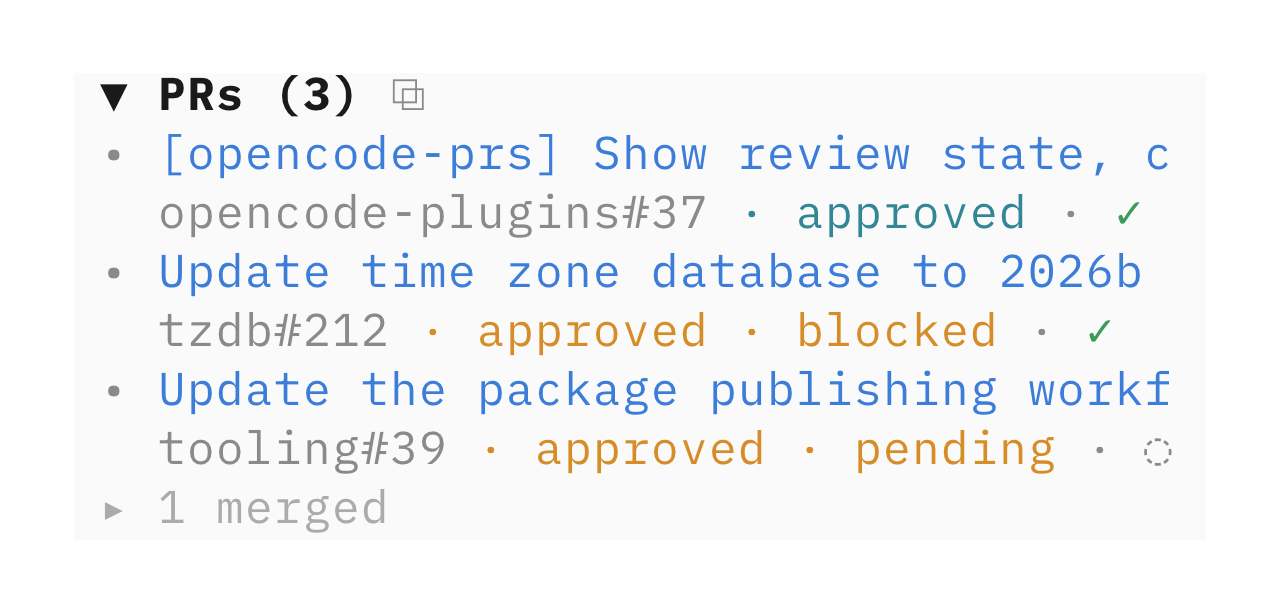
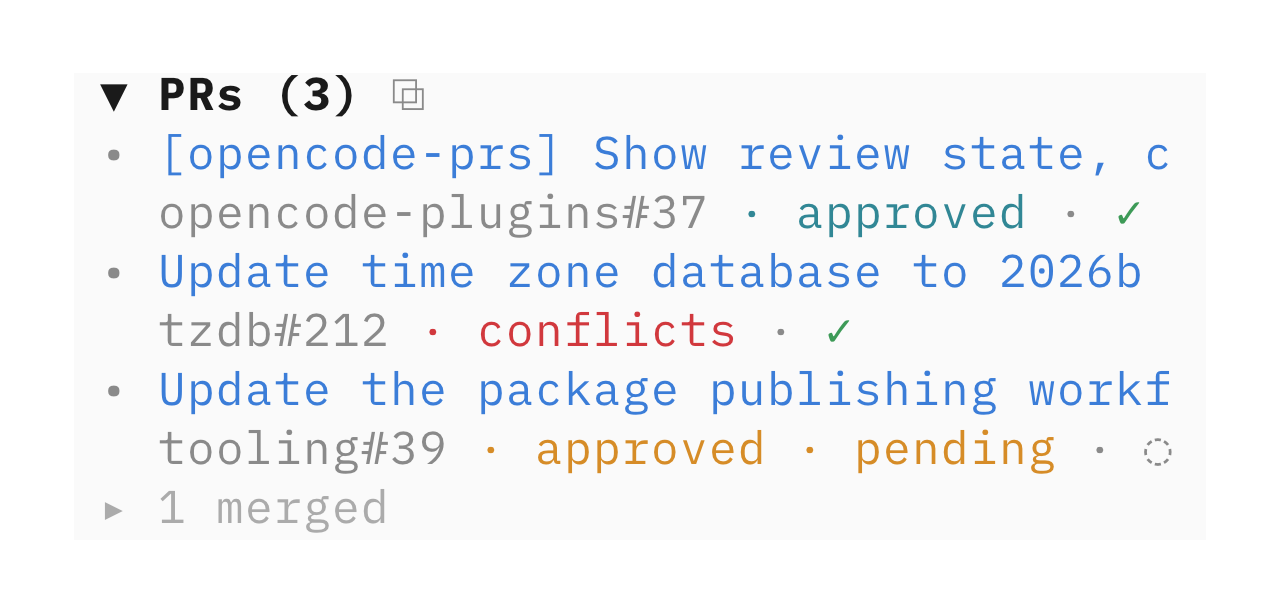
[opencode-prs] show conflicts as a status word, pending before blocked (#56)

Changed region(s): [[0.375, 0.4943, 0.5938, 0.587], [0.625, 0.4943, 0.7812, 0.587], [0.8438, 0.5252, 0.875, 0.5561]]

diff --git a/packages/prs/test/prs.test.js b/packages/prs/test/prs.test.js
@@ -124,7 +124,7 @@ test("labels review state with words", () => {
   const approved = { state: "OPEN", isDraft: false, reviewDecision: "APPROVED", mergeStateStatus: "CLEAN", checks: "passing" }
   assert.equal(pullRequestStatusLabel(approved), "approved")
   assert.equal(pullRequestStatusLabel({ ...approved, mergeStateStatus: "BLOCKED" }), "approved · blocked")
-  assert.equal(pullRequestStatusLabel({ ...approved, mergeStateStatus: "BLOCKED", checks: "pending" }), "approved · blocked")
+  assert.equal(pullRequestStatusLabel({ ...approved, mergeStateStatus: "BLOCKED", checks: "pending" }), "approved · pending")
   assert.equal(pullRequestStatusLabel({ ...approved, mergeStateStatus: "UNKNOWN", checks: "pending" }), "approved · pending")
   assert.equal(pullRequestStatusLabel({ ...approved, mergeStateStatus: "UNSTABLE", checks: "pending" }), "approved · pending")
   assert.equal(pullRequestStatusLabel({ ...approved, mergeStateStatus: "UNSTABLE", checks: "failing" }), "approved")
@@ -162,11 +162,13 @@ test("maps the checks rollup to an indicator", () => {
   assert.equal(pullRequestChecksIndicator({ state: "MERGED", checks: "passing" }), undefined)
 })
 
-test("shows a conflicting PR as failing even when its checks passed", () => {
-  assert.equal(pullRequestChecksIndicator({ state: "OPEN", checks: "passing", mergeStateStatus: "DIRTY" }), "×")
-  assert.equal(pullRequestChecksIndicator({ state: "OPEN", checks: "none", mergeStateStatus: "DIRTY" }), "×")
-  assert.equal(pullRequestChecksIndicator({ state: "OPEN", checks: "passing", mergeStateStatus: "BLOCKED" }), "✓")
-  assert.equal(pullRequestChecksIndicator({ state: "MERGED", checks: "passing", mergeStateStatus: "DIRTY" }), undefined)
+test("labels a conflicting PR as conflicts and leaves the checks indicator alone", () => {
+  const conflicting = { state: "OPEN", isDraft: false, reviewDecision: "APPROVED", mergeStateStatus: "DIRTY", checks: "passing" }
+  assert.equal(pullRequestStatusLabel(conflicting), "conflicts")
+  assert.equal(pullRequestStatusLabel({ ...conflicting, isDraft: true }), "conflicts")
+  assert.equal(pullRequestStatusLabel({ ...conflicting, reviewDecision: "REVIEW_REQUIRED" }), "conflicts")
+  assert.equal(pullRequestStatusLabel({ ...conflicting, state: "MERGED" }), "merged")
+  assert.equal(pullRequestChecksIndicator(conflicting), "✓")
 })
 
 test("labels pull requests with their repository", () => {

diff --git a/packages/prs/src/prs.ts b/packages/prs/src/prs.ts
@@ -145,10 +145,8 @@ export function pullRequestFromRest(ref: PullRequestRef, data: RestPullRequest, 
 }
 
 export type ChecksIndicator = "✓" | "×" | "◌"
-// GitHub stops running checks on a conflicting branch, so a green rollup would hide that the PR cannot merge.
-export function pullRequestChecksIndicator(pr: Pick<PullRequest, "state" | "checks" | "mergeStateStatus">): ChecksIndicator | undefined {
+export function pullRequestChecksIndicator(pr: Pick<PullRequest, "state" | "checks">): ChecksIndicator | undefined {
   if (pr.state !== "OPEN") return undefined
-  if (pr.mergeStateStatus === "DIRTY") return "×"
   if (pr.checks === "passing") return "✓"
   if (pr.checks === "failing") return "×"
   if (pr.checks === "pending") return "◌"
@@ -161,12 +159,20 @@ export function pullRequestStatus(pr: Pick<PullRequest, "state" | "isDraft">): "
   return pr.isDraft ? "draft" : "open"
 }
 
+// GitHub stops running checks on a conflicting branch, so conflicts must show even when every check is green.
+export function pullRequestHasConflicts(pr: Pick<PullRequest, "state" | "mergeStateStatus">): boolean {
+  return pr.state === "OPEN" && pr.mergeStateStatus === "DIRTY"
+}
+
+// Required checks still running also report BLOCKED, so pending wins until they finish.
 export function pullRequestStatusLabel(pr: Pick<PullRequest, "state" | "isDraft" | "reviewDecision" | "mergeStateStatus" | "checks">): string {
+  if (pullRequestHasConflicts(pr)) return "conflicts"
   const status = pullRequestStatus(pr)
   if (status !== "open") return status
   if (pr.reviewDecision !== "APPROVED") return "waiting"
+  if (pr.checks === "pending") return "approved · pending"
   if (pr.mergeStateStatus === "BLOCKED") return "approved · blocked"
-  return pr.checks === "pending" ? "approved · pending" : "approved"
+  return "approved"
 }
 
 export function pullRequestStatusIsWarning(pr: Pick<PullRequest, "isDraft" | "reviewDecision" | "mergeStateStatus" | "checks">): boolean {

diff --git a/packages/prs/src/tui.tsx b/packages/prs/src/tui.tsx
@@ -15,6 +15,7 @@ import {
   pullRequestCommentsLabel,
   pullRequestFromNode,
   pullRequestFromRest,
+  pullRequestHasConflicts,
   pullRequestLabel,
   pullRequestStatusLabel,
   pullRequestStatusIsWarning,
@@ -207,6 +208,7 @@ function PullRequestRow(props: {
   const titleColor = () => merged() ? subdued() : props.link
   const statusColor = () => {
     if (merged()) return subdued()
+    if (pullRequestHasConflicts(props.pr)) return props.error
     return pullRequestStatusIsWarning(props.pr) ? props.draft : props.open
   }
   const checksColor = (indicator: ChecksIndicator) => {
@@ -571,6 +573,7 @@ function PanelRow(props: {
   const subdued = () => merged() ? fade(theme.text.muted, MERGED_OPACITY) : theme.text.muted
   const statusColor = () => {
     if (merged()) return subdued()
+    if (pullRequestHasConflicts(props.pr)) return theme.text.feedback.error.base
     return pullRequestStatusIsWarning(props.pr) ? theme.text.feedback.warning.base : theme.text.feedback.info.base
   }
   const checksLine = () => {
@@ -609,9 +612,6 @@ function PanelRow(props: {
           {` · +${props.pr.additions}/-${props.pr.deletions}`}
         </text>
       </box>
-      <Show when={props.pr.state === "OPEN" && props.pr.mergeStateStatus === "DIRTY"}>
-        <text fg={theme.text.feedback.error.base} marginLeft={2} wrapMode="none">× merge conflicts</text>
-      </Show>
       <Show when={props.pr.state === "OPEN" && props.pr.checkSummary.total > 0}>
         <box flexDirection="column" marginLeft={2} minWidth={0}>
           <For each={props.pr.checkSummary.failing}>{(name) => (

diff --git a/scripts/screenshots/prs.py b/scripts/screenshots/prs.py
@@ -26,7 +26,7 @@ How it works:
    of the first title for the animation frames.
 5. Assembles the GIF: 1.1s rest, 120ms per marquee step, 2.1s rest, plays once.
 
-Outputs assets/prs-<mode>.png and assets/prs-hover-<mode>-v5.gif.
+Outputs assets/prs-<mode>.png and assets/prs-hover-<mode>-v6.gif.
 Bump the gif suffix (and the README references) when the animation changes:
 GitHub caches by filename.
 """
@@ -37,7 +37,7 @@ ROOT = os.path.dirname(os.path.dirname(HERE))
 ASSETS = os.path.join(ROOT, "assets")
 PLUGIN = os.path.join(ROOT, "packages/prs/dist")
 SESSION = "ses_screenshots0000000000prs"
-GIF_SUFFIX = "v5"
+GIF_SUFFIX = "v6"
 CHROME = "/Applications/Google Chrome.app/Contents/MacOS/Google Chrome"
 
 PR_URLS = [  # order of creation, sidebar sorts them itself

diff --git a/packages/prs/README.md b/packages/prs/README.md
@@ -3,13 +3,13 @@
 [OpenCode](https://opencode.ai) TUI plugin that lists GitHub pull requests opened by the current session.
 
 <picture>
-  <source media="(prefers-color-scheme: dark)" srcset="../../assets/prs-hover-dark-v5.gif">
-  <img src="../../assets/prs-hover-light-v5.gif" alt="Pull request titles scrolling on hover in the OpenCode sidebar" width="640">
+  <source media="(prefers-color-scheme: dark)" srcset="../../assets/prs-hover-dark-v6.gif">
+  <img src="../../assets/prs-hover-light-v6.gif" alt="Pull request titles scrolling on hover in the OpenCode sidebar" width="640">
 </picture>
 
-The sidebar section is collapsible. Each pull request uses a full-width linked title with its muted `repository#number` and colored status below: `approved`, `approved · blocked`, `approved · pending`, or `waiting` for open pull requests, `draft`, or `merged`. The blocked label appears when GitHub reports an approved pull request cannot merge, including when required checks or approvals are outstanding. Pending means checks are still running, even when GitHub has not settled the merge state. Open pull requests also show unresolved review comments and a checks indicator: `✓` passing, `×` failing or merge conflicts, `◌` pending. Merged pull requests fold into one `▸ 3 merged` line under the open ones; click it to list them in subdued colors, so open work stays prominent. Hover a clipped title to scroll through its full text once. Click a status line to copy that PR as a Slack-ready summary, or `⧉` in the header to copy the open and draft ones, confirmed with a toast. The count in the header is the open and draft PRs too.
+The sidebar section is collapsible. Each pull request uses a full-width linked title with its muted `repository#number` and colored status below: `approved`, `approved · blocked`, `approved · pending`, or `waiting` for open pull requests, `draft`, or `merged`. A pull request with merge conflicts shows `conflicts` in red instead, draft or not. The blocked label appears when GitHub reports an approved pull request cannot merge, including when required checks or approvals are outstanding. Pending means checks are still running, and wins over blocked because GitHub also reports running required checks as blocked. Open pull requests also show unresolved review comments and a checks indicator: `✓` passing, `×` failing, `◌` pending. Merged pull requests fold into one `▸ 3 merged` line under the open ones; click it to list them in subdued colors, so open work stays prominent. Hover a clipped title to scroll through its full text once. Click a status line to copy that PR as a Slack-ready summary, or `⧉` in the header to copy the open and draft ones, confirmed with a toast. The count in the header is the open and draft PRs too.
 
-On opencode 2, `/prs` (or clicking the `PRs` header) opens a panel beside the conversation with every PR of the session at full width: title, `repo#number`, status, unresolved comments, diff size, and for open PRs a `× merge conflicts` line when the branch conflicts, the failing and running checks by name plus a `✓ 397 passing, 56 skipped of 462` line. Keys while the panel has focus: `j`/`k` or arrows move, `enter` or `o` opens the PR in the browser, `c` copies it for Slack, `C` copies the open and draft ones, `r` refreshes, `f` toggles full screen, `q` or `esc` closes. Clicking a row selects it, clicking a title opens it. The `▼` on the sidebar header still folds the section.
+On opencode 2, `/prs` (or clicking the `PRs` header) opens a panel beside the conversation with every PR of the session at full width: title, `repo#number`, status, unresolved comments, diff size, and for open PRs the failing and running checks by name plus a `✓ 397 passing, 56 skipped of 462` line. Keys while the panel has focus: `j`/`k` or arrows move, `enter` or `o` opens the PR in the browser, `c` copies it for Slack, `C` copies the open and draft ones, `r` refreshes, `f` toggles full screen, `q` or `esc` closes. Clicking a row selects it, clicking a title opens it. The `▼` on the sidebar header still folds the section.
 
 ## Install
 

diff --git a/AGENTS.md b/AGENTS.md
@@ -20,7 +20,7 @@ This repository publishes independent OpenCode TUI plugins from `packages/`.
 ## Screenshots
 
 - Update the light and dark `opencode-prs` screenshots and hover GIFs when its visible output changes.
-- Keep `assets/prs-light.png`, `assets/prs-dark.png`, `assets/prs-hover-light-v5.gif`, and `assets/prs-hover-dark-v5.gif` in sync with the current UI.
+- Keep `assets/prs-light.png`, `assets/prs-dark.png`, `assets/prs-hover-light-v6.gif`, and `assets/prs-hover-dark-v6.gif` in sync with the current UI.
 - Regenerate them with `pnpm build && python3 scripts/screenshots/prs.py`. It needs the OpenCode 2 background service, `tmux`, Google Chrome, `magick`, and `gifsicle`. It imports a fake session, runs the real TUI in tmux with a private `XDG_CONFIG_HOME`, shadows `gh` with `scripts/screenshots/gh` for canned PR data, injects mouse motion for the hover marquee, and renders the captured cells through headless Chrome with IBM Plex Mono. The script docstring has the details.
 - Change the PR mix in `scripts/screenshots/gh` (one PR per visible state, keep it to four rows). Bump `GIF_SUFFIX` in `prs.py` and the README references when the animation changes: GitHub caches GIFs by filename.
 - The cursor in the GIF sits on the lower half of the first title, slightly right of center (`CURSOR` in `prs.py`). Keep it there.

diff --git a/README.md b/README.md
@@ -25,8 +25,8 @@ Shows GitHub pull requests opened by the current session. Every title links to G
 
 <a href="packages/prs">
   <picture>
-    <source media="(prefers-color-scheme: dark)" srcset="assets/prs-hover-dark-v5.gif">
-    <img src="assets/prs-hover-light-v5.gif" alt="Pull requests opened by an OpenCode session" width="640">
+    <source media="(prefers-color-scheme: dark)" srcset="assets/prs-hover-dark-v6.gif">
+    <img src="assets/prs-hover-light-v6.gif" alt="Pull requests opened by an OpenCode session" width="640">
   </picture>
 </a>
 

diff --git a/.changeset/prs-conflicts-label.md b/.changeset/prs-conflicts-label.md
@@ -1,0 +1,5 @@
+---
+"opencode-prs": patch
+---
+
+Show `conflicts` in red as the status of a PR with merge conflicts, keep `×` for failing checks only, and show `approved · pending` instead of `approved · blocked` while required checks run.
